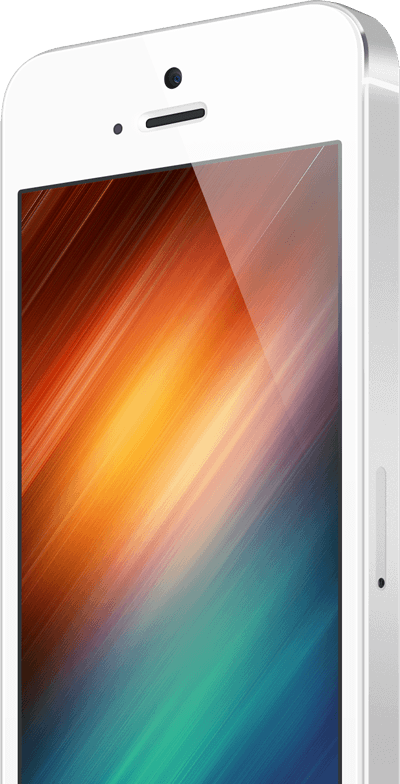
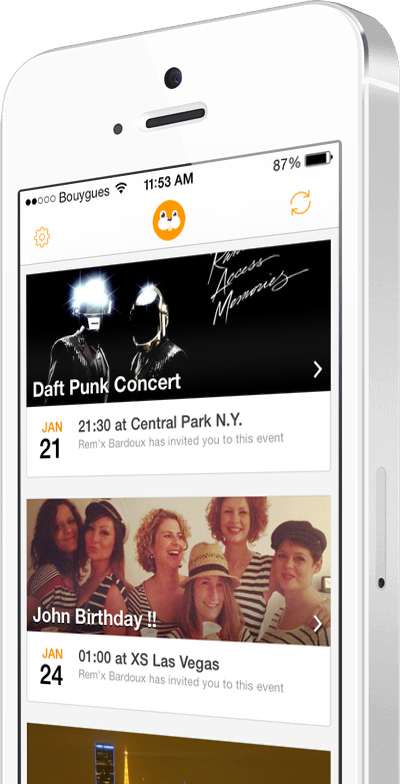
Ajout iPhone sur hero body

diff --git a/public/fr/index.html b/public/fr/index.html
@@ -124,7 +124,7 @@ type='text/javascript';e.parentNode.insertBefore($,e)})(document,'script');
             <div class="container">
                 <div class="row">
                 
-                    <div class=" col-sm-8 top-desc">
+                    <div class=" col-sm-7 top-desc">
                         <h1><strong>Gérez</strong> et profitez de vos <br /> évènements Facebook  autrement !</h1>
                         <p class="hidden-xs hidden-sm">Accèdez à tous vos évènements Facebook simplement, répondez rapidement à vos invitations en attente, retrouvez vos évènements passés, et profitez enfin de ces merveilleux moments passés avec vos proches en regroupant automatiquement toutes les photos prises pour chaque évènement !</p>
                         <div class="btn-section">
@@ -133,11 +133,11 @@ type='text/javascript';e.parentNode.insertBefore($,e)})(document,'script');
                         </div>
                     </div>
                     
-                    <!--<div class=" col-sm-4 col-sm-offset-1 ">
+                    <div class=" col-sm-4 col-sm-offset-1 ">
                     	<figure>
                         	<img src="../images/top-phone.png" alt="Image" />
                         </figure>
-                    </div>-->
+                    </div>
                     
                 </div> <!-- End row -->
             </div> <!-- End container -->
@@ -457,12 +457,15 @@ type='text/javascript';e.parentNode.insertBefore($,e)})(document,'script');
 		  ga('create', 'UA-46578046-1', 'woovent.com');
 		  ga('send', 'pageview');
 		
-		</script>
 		
 		var addthis_config = 
 		{
 		    data_track_addressbar: false 
 		} 
+		
+		</script>
+		
+
 		
 		<!-- AddThis Button BEGIN -->
 		<div class="addthis_toolbox addthis_floating_style addthis_counter_style hidden-xs hidden-sm" style="right: 20px;top: 85px;padding-left: 0px;">

diff --git a/public/en/index.html b/public/en/index.html
@@ -123,7 +123,7 @@ type='text/javascript';e.parentNode.insertBefore($,e)})(document,'script');
             <div class="container">
                 <div class="row">
                 
-                    <div class=" col-sm-8 top-desc">
+                    <div class=" col-sm-7 top-desc">
                         <h1>Enjoy and <strong>manage</strong> <br/>your Facebook events</h1>
                         <p class="hidden-xs hidden-sm">Woovent helps you view your upcoming events easily, RSVP to your invites quickly, find your past events again and enjoy your events by collecting all pictures for each of them.</p>
                         <div class="btn-section">
@@ -132,11 +132,11 @@ type='text/javascript';e.parentNode.insertBefore($,e)})(document,'script');
                         </div>
                     </div>
                     
-                    <!--<div class=" col-sm-4 col-sm-offset-1 ">
+                    <div class=" col-sm-4 col-sm-offset-1 ">
                     	<figure>
                         	<img src="../images/top-phone.png" alt="Image" />
                         </figure>
-                    </div>-->
+                    </div>
                     
                 </div> <!-- End row -->
             </div> <!-- End container -->
